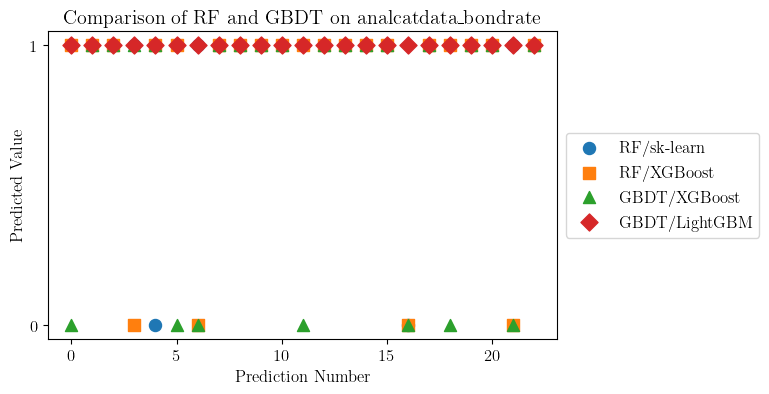
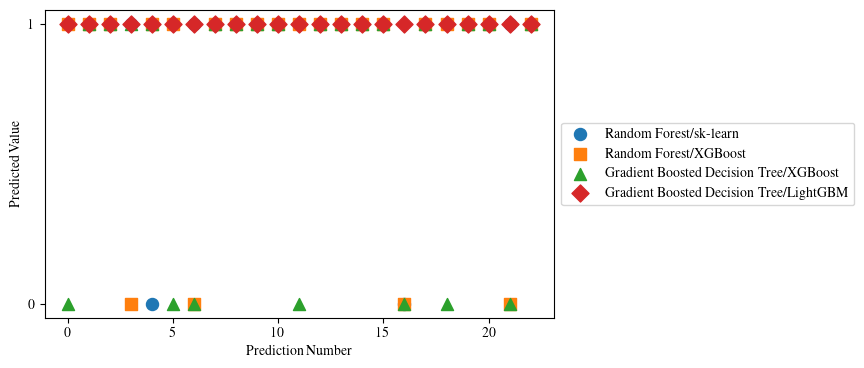
visuals

diff --git a/utils/dataVisualization.py b/utils/dataVisualization.py
@@ -1,11 +1,14 @@
 import random
 
 def classificationVisualization(datasetName:str,classificationUpperBound:int,algorithmOne:str,algorithmTwo:str,algorithmOneData:dict, algorithmTwoData:dict) -> None:
+    from matplotlib import RcParams
     import matplotlib.pyplot as plt
-    plt.rc('text', usetex=True)
-    plt.rc('font', family='serif')
-    plt.rc('font', serif='Computer Modern Roman')
-    plt.rc('font', size=12) 
+    latex_style_times = RcParams({'font.family': 'serif',
+               'font.serif': ['Times'],
+               'text.usetex': True,
+               })
+
+    plt.style.use(latex_style_times)
 
     algorithmOneModelOneName = algorithmOneData["modelOneName"]
     algorithmOneModelTwoName = algorithmOneData["modelTwoName"]
@@ -27,6 +30,9 @@ def classificationVisualization(datasetName:str,classificationUpperBound:int,alg
     # Plotting configuration
     fig, ax = plt.subplots(figsize=(len(algorithmOneModelOneList)/3.5,classificationUpperBound+2))
 
+    algorithmOne = "Random Forest"
+    algorithmTwo = "Gradient Boosted Decision Tree"
+
     # Plot points for each model's data from both algorithms
     ax.scatter(range(len(algorithmOneModelOneList)), algorithmOneModelOneList, label=f"{algorithmOne}/{algorithmOneModelOneName}", s=75, marker='o')
     ax.scatter(range(len(algorithmOneModelTwoList)), algorithmOneModelTwoList, label=f"{algorithmOne}/{algorithmOneModelTwoName}", s=75, marker='s')
@@ -37,7 +43,6 @@ def classificationVisualization(datasetName:str,classificationUpperBound:int,alg
     ax.set_yticks(list(range(classificationUpperBound)))
     ax.set_xlabel("Prediction Number")
     ax.set_ylabel("Predicted Value")
-    ax.set_title(f"Comparison of {algorithmOne} and {algorithmTwo} on {datasetName}")
     ax.legend(loc='center left', bbox_to_anchor=(1, 0.5))
 
     # Save the plot to a file
